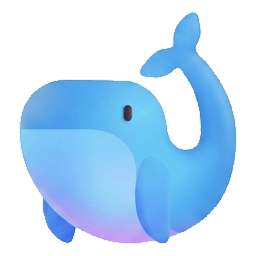
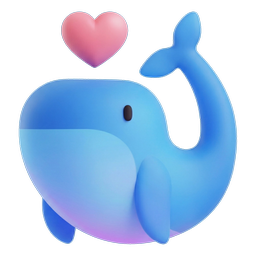
동물 아이콘 white matte 제거 + 하트고래 복원 dematte

diff --git a/public/sw.js b/public/sw.js
@@ -1,4 +1,4 @@
-var BUILD_TIME = '20260513_1228';
+var BUILD_TIME = '20260515_1738';
 // MBTS Service Worker — network-first
 var CACHE_NAME = 'mbts-' + BUILD_TIME;
 self.addEventListener('install', function() { self.skipWaiting(); });